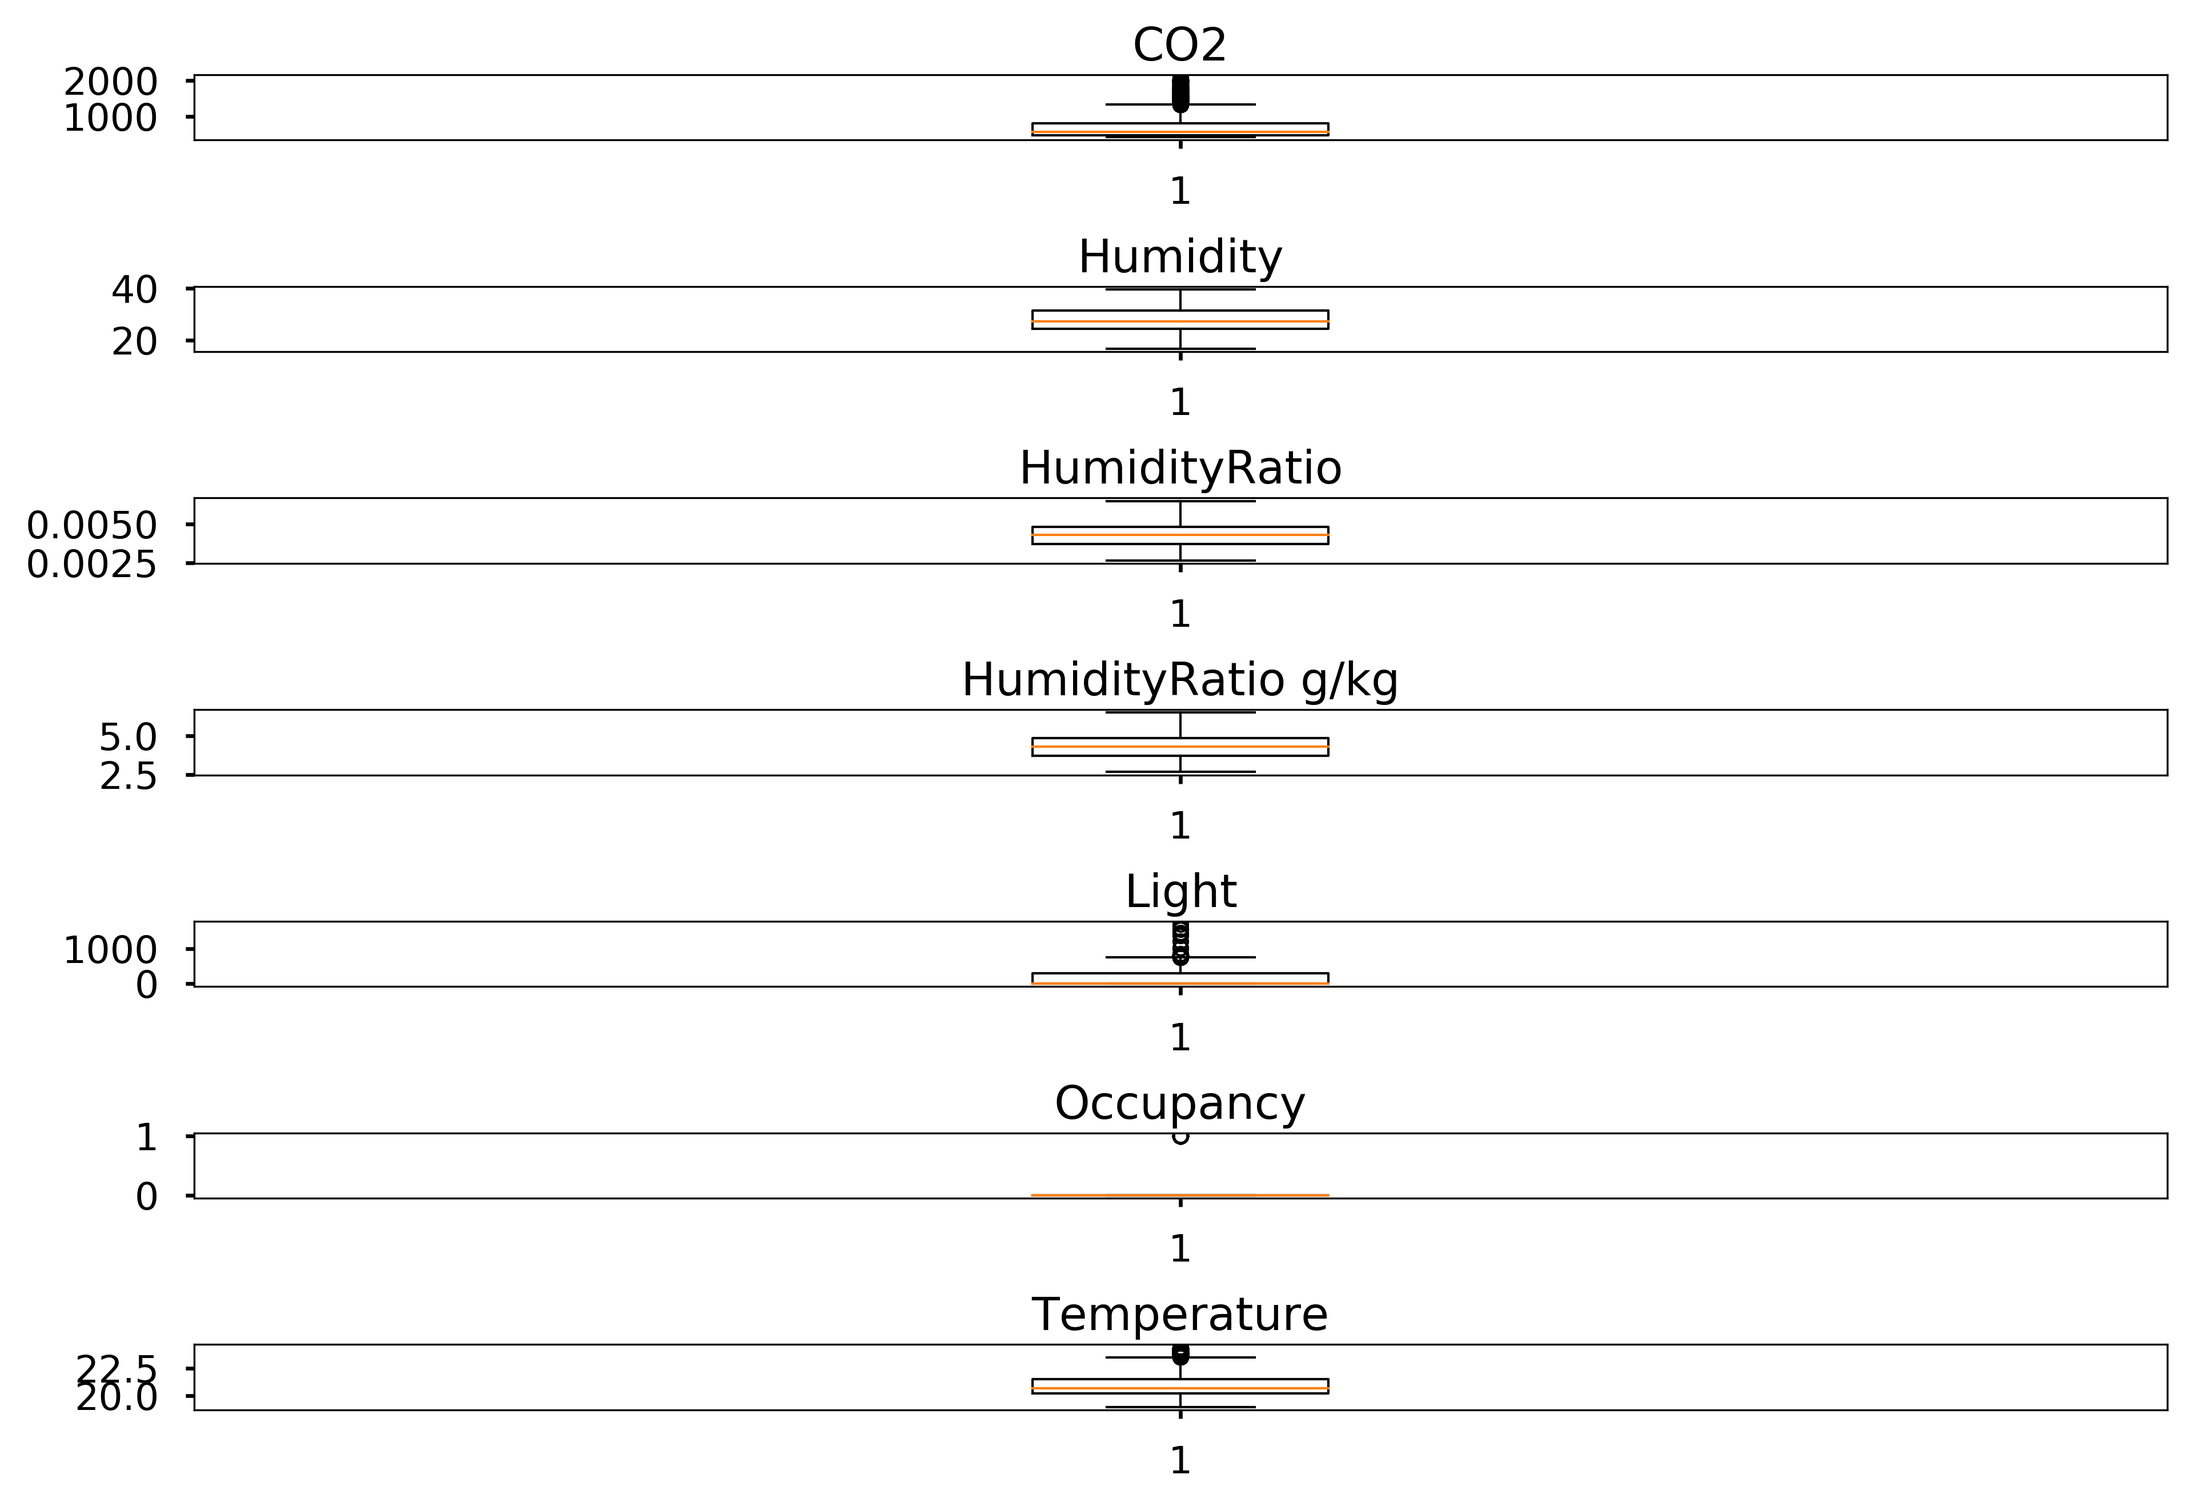
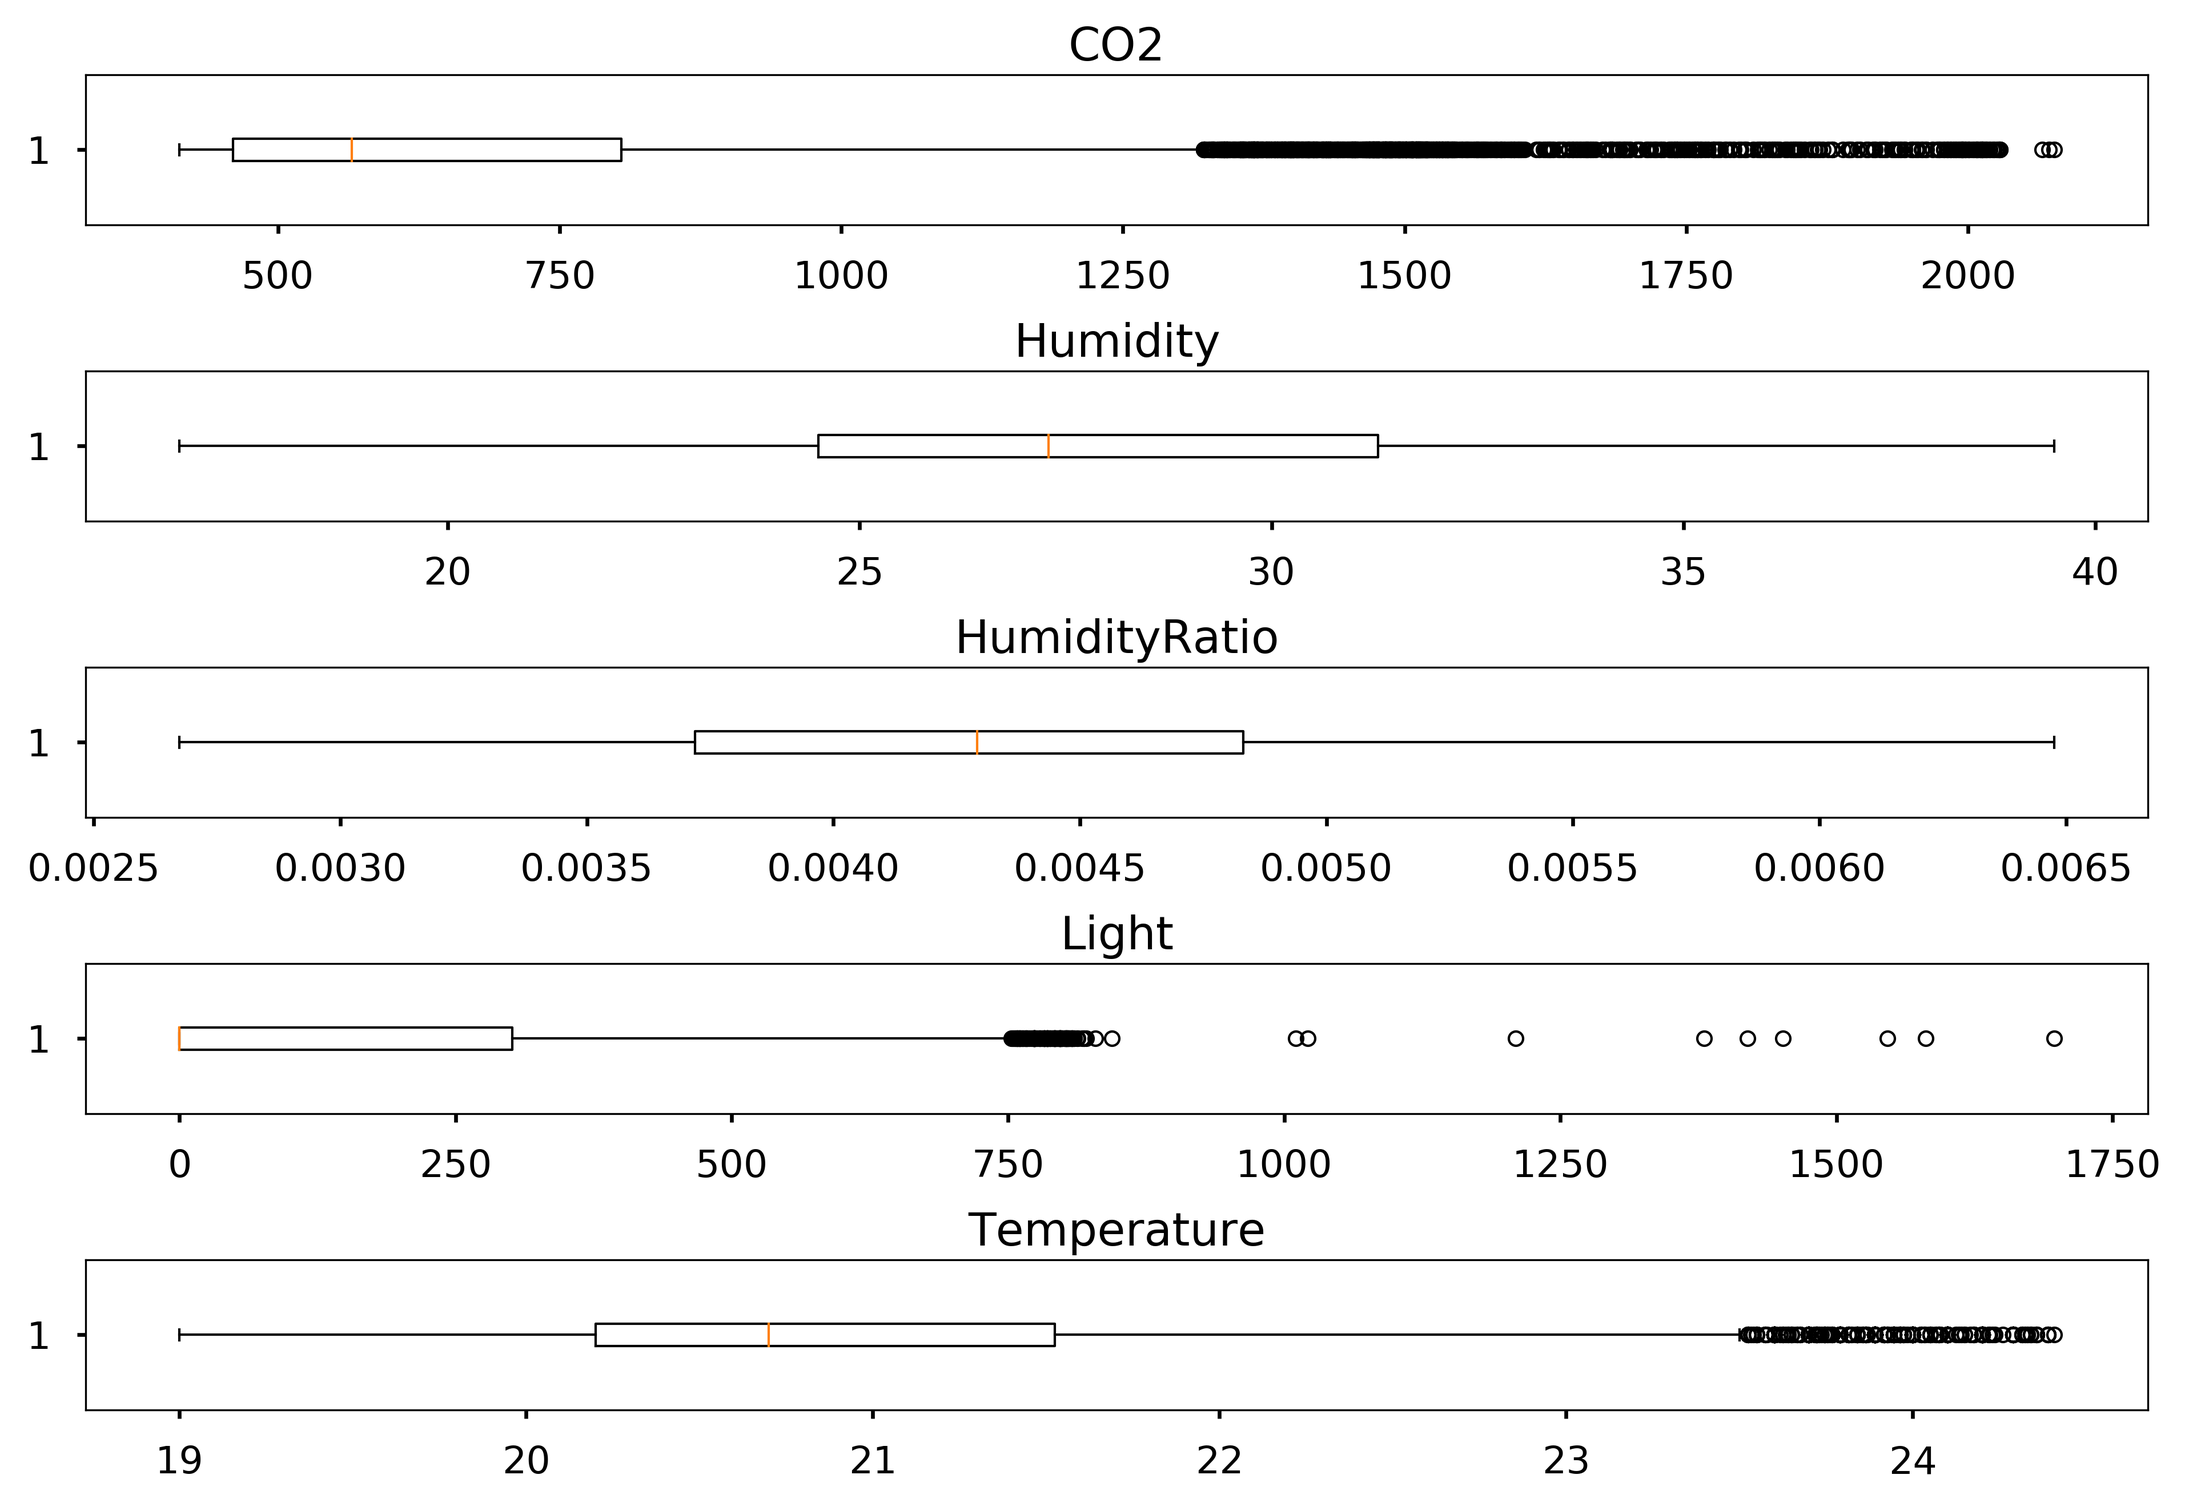
work in progress - occupancy:  - data investigation done  - data encoding done  - confusion matrix added  - classification error added

diff --git a/Exercise 2/occupancy.py b/Exercise 2/occupancy.py
@@ -14,154 +14,131 @@ from sklearn import preprocessing
 from sklearn.impute import SimpleImputer
 
 import helper
+import functions
 
 #%% data pre-processing
 
 occupancy_TrainingData = pd.read_csv(
     os.path.join(cfg.default.occupancy_data, 'datatraining.txt'))
 occupancy_TrainingData = occupancy_TrainingData.set_index('date')
-occupancy_TrainingData['HumidityRatio g/kg'] = (
-    occupancy_TrainingData['HumidityRatio']*1000 )
+# occupancy_TrainingData['HumidityRatio g/kg'] = (
+#     occupancy_TrainingData['HumidityRatio']*1000 )
 
 occupancy_test_data = pd.read_csv(
     cfg.default.occupancy_data + '\\datatest.txt')
 occupancy_test_data = occupancy_test_data.set_index('date')
-occupancy_test_data['HumidityRatio g/kg'] = (
-    occupancy_test_data['HumidityRatio']*1000 )
+# occupancy_test_data['HumidityRatio g/kg'] = (
+#     occupancy_test_data['HumidityRatio']*1000 )
 
 occupancy_test2_data = pd.read_csv(
     cfg.default.occupancy_data + '\\datatest2.txt')
 occupancy_test2_data = occupancy_test2_data.set_index('date')
-occupancy_test2_data['HumidityRatio g/kg'] = (
-    occupancy_test2_data['HumidityRatio']*1000 )
+# occupancy_test2_data['HumidityRatio g/kg'] = (
+#     occupancy_test2_data['HumidityRatio']*1000 )
 
 # Concatenate data sets
-occupancy_data = pd.concat([occupancy_TrainingData,
-                            occupancy_test_data,
-                            occupancy_test2_data],
-                            sort=True, verify_integrity=True)
+data = pd.concat([occupancy_TrainingData,
+    occupancy_test_data,
+    occupancy_test2_data],
+    sort=True, verify_integrity=True)
 
-helper.boxplot_raw_data(occupancy_data, occupancy_data.columns,
-                        save_fig_path=os.path.join(
-                            cfg.default.occupancy_figures,
-                            'occupancy_box_plot.png'))
-stophere
+# distinguish attributes in predictive and goal
+goal_attribute = 'Occupancy'
 
-rawData = load(open(os.path.join(cfg.default.communities_data,
-                                 'communities.arff'), 'r'))
-all_attributes = list(i[0] for i in rawData['attributes'])
-communities_data = pd.DataFrame(columns=all_attributes, data=rawData['data'])
-
-# distinguish attributes in not_predictive, predictive and goal
-not_predictive_attributes = [
-    'state',
-    'county',
-    'community',
-    'communityname',
-    'fold'
-]
-goal_attribute = 'ViolentCrimesPerPop'
-
-predictive_attributes = all_attributes.copy()
+predictive_attributes = data.columns.to_list()
 predictive_attributes.remove(goal_attribute)
 
-for x in not_predictive_attributes:
-    predictive_attributes.remove(x)
-
-#%% investigate data
+#%% Investigate data
 if False:
-    communities_data[predictive_attributes[0:30]].boxplot()
-    communities_data[predictive_attributes[30:60]].boxplot()
-    communities_data[predictive_attributes[60:90]].boxplot()
+    helper.boxplot_raw_data(data,
+        data[predictive_attributes].columns,
+        save_fig_path=os.path.join(cfg.default.occupancy_figures,
+            'occupancy_box_plot.png'))
 
 #%% Treat missing values
-missing_values = (communities_data[predictive_attributes+[goal_attribute]].
+missing_values = (data[predictive_attributes+[goal_attribute]].
                   isnull().sum().sum())
-cells_total = (len(communities_data.index)*
-    len(communities_data[predictive_attributes+[goal_attribute]].columns))
+cells_total = (len(data.index)*
+    len(data[predictive_attributes+[goal_attribute]].columns))
 print('Missing values: '+str(missing_values))
 print('Cells total: '+str(cells_total))
 print('Missing: {:.1%}'.format(missing_values/cells_total))
 
 # Remove attributes with more than 80 % missing values
-attributes_to_delete = communities_data[predictive_attributes].columns[
-    communities_data[predictive_attributes].isnull().sum() / 
-    len(communities_data.index)*100 > 80]
-for x in attributes_to_delete:
-    predictive_attributes.remove(x)
-
-print('Missing in "OtherPerCap": '+
-      str(communities_data['OtherPerCap'].isnull().sum()))
-# -> impute mean value of attribute, but do the split before
-
-# Input variable correlation analysis
-correlation_matrix = (communities_data[predictive_attributes+[goal_attribute]].
-                      corr(method='pearson'))
-
 if False:
-    ax = heatmap(correlation_matrix, center=0, vmin=-1, vmax=1, square=True,
-                xticklabels=False, yticklabels=False)
-    plt.tight_layout()
-    plt.savefig(os.path.join(cfg.default.communities_figures, 
-                'communities_data_correlations.png'),
-                format='png', dpi=200,
-                metadata={'Creator': '', 'Author': '', 'Title': '', 'Producer': ''},
-                )
+    attributes_to_delete = data[predictive_attributes].columns[
+        data[predictive_attributes].isnull().sum() / 
+        len(data.index)*100 > 80]
+    for x in attributes_to_delete:
+        predictive_attributes.remove(x)
 
 #%% Data encoding
-# Not necessary 
+# use month and weekday and hour of day as input with simple label encoding
+data['dayOfWeek'] = pd.to_datetime(data.index).dayofweek
+data['hourOfDay'] = pd.to_datetime(data.index).hour
+predictive_attributes.append('dayOfWeek')
+predictive_attributes.append('hourOfDay')
+
+#%% Variable correlation analysis
+correlation_matrix = (data[predictive_attributes+[goal_attribute]].
+                      corr(method='pearson'))
+if False:
+    ax = heatmap(correlation_matrix, center=0, vmin=-1, vmax=1, square=True, 
+        xticklabels=True, yticklabels=True, annot=True)
+    ax.set_xticklabels(ax.get_xticklabels(), rotation=45, 
+        horizontalalignment='right')
+    plt.tight_layout()
+    plt.savefig(os.path.join(cfg.default.occupancy_figures,
+        'occupancy_data_correlations.png'),
+        format='png', dpi=200,
+        metadata={'Creator': '', 'Author': '', 'Title': '', 'Producer': ''})
 
 #%% Split data
-X = communities_data[predictive_attributes].to_numpy()
-y = communities_data[goal_attribute].to_numpy() 
+X = data[predictive_attributes].to_numpy()
+y = data[goal_attribute].to_numpy() 
 X_train, X_test, y_train, y_test = train_test_split(X, y, test_size=0.2,
-                                                    random_state=1)
+    random_state=1)
 
 #%% Impute mean value of attributes
-imp = SimpleImputer(missing_values=np.nan, strategy='mean')
-X_train = imp.fit_transform(X_train)
-X_test = imp.transform(X_test)
+if False:
+    imp = SimpleImputer(missing_values=np.nan, strategy='mean')
+    X_train = imp.fit_transform(X_train)
+    X_test = imp.transform(X_test)
 
 #%% Data scaling (remove mean and scale to unit variance)
 scaler = preprocessing.StandardScaler().fit(X_train)
 X_train_scaled = scaler.transform(X_train)
 X_test_scaled = scaler.transform(X_test)
 
-#%% Ridge regression
-if False:
-    alpha_list = [0, 1e-4, 1e-2, 1, 5, 10, 50, 100]
-    functions.ridge_regression(X_train, X_test, y_train, y_test, alpha_list,
-                               True, cfg.default.communities_figures,
-                               'ridge_reg')
+#%% k-Nearest Neighbor Classification
+if True:
+    list_k = [1, 3, ]  # 5, 10, 20, 50, 100, 300]
+    functions.knn(X_train, X_test, y_train, y_test, list_k, True,
+        ['uniform', 'distance'], ['holdout'],  # , 'cross-validation'],
+        cfg.default.occupancy_figures,
+        'knn')
 
-#%% k-Nearest Neighbor Regression
-if False:
-    k_values = [1, 3, 5, 10, 20, 50, 100, 300]
-    functions.knn(X_train, X_test, y_train, y_test, k_values, True,
-                  ['uniform', 'distance'], cfg.default.communities_figures,
-                  'knn')
+# #%% Decision Tree Regression
+# if False:
+#     max_depths = [1, 10, 50, 100, 200, 500]
+#     min_samples_leaf = [1, 10, 100, 200]
+#     min_weight_fraction_leafs = [.0, .1, .2, .35, .5]
 
-#%% Decision Tree Regression
-if False:
-    max_depths = [1, 10, 50, 100, 200, 500]
-    min_samples_leaf = [1, 10, 100, 200]
-    min_weight_fraction_leafs = [.0, .1, .2, .35, .5]
+#     functions.decision_tree(X_train, X_test, y_train, y_test, max_depths,
+#                             min_weight_fraction_leafs, min_samples_leaf,
+#                             cfg.default.occupancy_figures, 'dtree')
 
-    functions.decision_tree(X_train, X_test, y_train, y_test, max_depths,
-                            min_weight_fraction_leafs, min_samples_leaf,
-                            cfg.default.communities_figures, 'dtree')
+# # %% Multi-layer Perceptron Regressor
+# if False:
+#     solver = 'lbfgs'  # default=’adam’
+#     # ‘adam’ works for large datasets (with thousands of training samples or more) in terms of both training time and validation score
+#     # ‘lbfgs’ for small datasets can converge faster and perform better
+#     max_iteration = 800  # default=200
+#     alpha = [1e-7, 1e-4, 1e-1]  # usually in the range 10.0 ** -np.arange(1, 7)
+#     list_hidden_layer_sizes = [[90, 90], [180, 90, 180], [180, 180, 180]]
 
-# %% Multi-layer Perceptron Regressor
-if False:
-    solver = 'lbfgs'  # default=’adam’
-    # ‘adam’ works for large datasets (with thousands of training samples or more) in terms of both training time and validation score
-    # ‘lbfgs’ for small datasets can converge faster and perform better
-    max_iteration = 800  # default=200
-    alpha = [1e-7, 1e-4, 1e-1]  # usually in the range 10.0 ** -np.arange(1, 7)
-    list_hidden_layer_sizes = [[90, 90], [180, 90, 180], [180, 180, 180]]
-
-    functions.mlp(X_train_scaled, X_test_scaled, y_train, y_test, max_iteration, solver, alpha, list_hidden_layer_sizes,
-            cfg.default.communities_figures, 'mlp')
+#     functions.mlp(X_train_scaled, X_test_scaled, y_train, y_test, max_iteration, solver, alpha, list_hidden_layer_sizes,
+#             cfg.default.occupancy_figures, 'mlp')
 
 
 #%% Finish

diff --git a/Exercise 2/functions.py b/Exercise 2/functions.py
@@ -19,12 +19,16 @@ from sklearn.neural_network import MLPClassifier
 
 from sklearn.model_selection import cross_validate
 
+from sklearn.metrics import confusion_matrix
+from sklearn.metrics import classification_report
+
 from sklearn.dummy import DummyClassifier
 
 import functions
 import os
 import seaborn as sns
 
+from time import process_time
 
 def mean_absolute_percentage_error(y_true, y_pred):
     y_true, y_pred = np.array(y_true), np.array(y_pred)
@@ -159,10 +163,11 @@ def check_performance(X_train: np.array, y_train: np.array,
 #     plt.close(fig)
 
 
-def knn(X_train: np.array, X_test: np.array, Y_train: np.array, Y_test: np.array,
-        list_k=[1, 3, 5], scaling: bool = True, weights=['uniform', 'distance'],
-        splits=['holdout', 'cross-validation'],
-        path: str = None, filename: str = None):
+def knn(X_train: np.array, X_test: np.array, y_train: np.array,
+    y_test: np.array, list_k=[1, 3, 5], scaling: bool = True,
+    weights=['uniform', 'distance'], splits=['holdout', 'cross-validation'],
+    path: str = None, filename: str = None):
+
     if scaling is True:
         scalings = ['scaling', 'noScaling']
         scaler = preprocessing.StandardScaler().fit(X_train)
@@ -171,10 +176,12 @@ def knn(X_train: np.array, X_test: np.array, Y_train: np.array, Y_test: np.array
     else:
         scalings = ['noScaling']
 
-    index = pd.MultiIndex.from_product([list_k, scalings, weights],
-                                       names=['k', 'scaling', 'weights'])
+    index = pd.MultiIndex.from_product([list_k, scalings, weights, splits],
+        names=['k', 'scaling', 'weights', 'splits'])
     knn_errors = pd.DataFrame(index=index,
-                              columns=['MAE', 'MAPE', 'MSE', 'RMSE', 'EV'])
+        columns=['MAE', 'MAPE', 'MSE', 'RMSE', 'EV'])
+    knn_times = pd.DataFrame(index=index,
+        columns=['runtime'])
     # Change parameters
     for k in list_k:
         for s in scalings:
@@ -192,22 +199,31 @@ def knn(X_train: np.array, X_test: np.array, Y_train: np.array, Y_test: np.array
                                                 algorithm='auto',  # 'ball_tree', 'kd_tree', 'brute'
                                                 leaf_size=30,  # default=30
                                                 n_jobs=-1)
+                    tic = process_time()
                     if split == 'holdout':
-                        knn.fit(xtrain, Y_train)
-                    else:  # cross-validation
+                        knn.fit(xtrain, y_train)
+
+
+                    elif split == 'cross-validation':
                         knn = KNeighborsClassifier(n_neighbors=k, weights=weight)
-                        scoring = ['precision_macro', 'recall_macro']
-                        scores = cross_validate(knn, xtrain, Y_train, cv=5,
+                        scoring = ['accuracy', 'precision_macro',
+                                    'recall_macro']
+                        scores = cross_validate(knn, xtrain, y_train, cv=5,
                                                 scoring=scoring, n_jobs=-1)  # n_jobs=-1 ... use all CPUs
-                        scores['test_recall_macro']
+                        # scores['test_recall_macro']
+                    runtime = tic-process_time()
+
                     y_pred_knn = knn.predict(xtest)
-                    
-                errors = functions.check_performance(X_train, Y_train,
-                            Y_test, y_pred_knn, os.path.join(
-                                path,
-                                filename + '_' + str(k) + '_' + weight + '_' + s))
-                knn_errors.loc[k, s, weight][:] = errors
-                del xtrain, xtest
+                    conf_matr_knn = confusion_matrix(y_test, y_pred_knn)
+                    print(classification_report(y_test, y_pred_knn))
+
+
+                    # errors = functions.check_performance(X_train, y_train,
+                    #     y_test, y_pred_knn, os.path.join(path,
+                    #         '_'.join([filename, str(k), weight, s, split)))
+                    # knn_errors.loc[k, s, weight, split][:] = errors
+                    # knn_runtimes.loc[k, s, weight, split][:] = runtime
+                    # del xtrain, xtest
 
     print(knn_errors)
     knn_errors.transpose().to_csv(os.path.join(path, filename + '_errors.csv'), sep=';', decimal=',')
